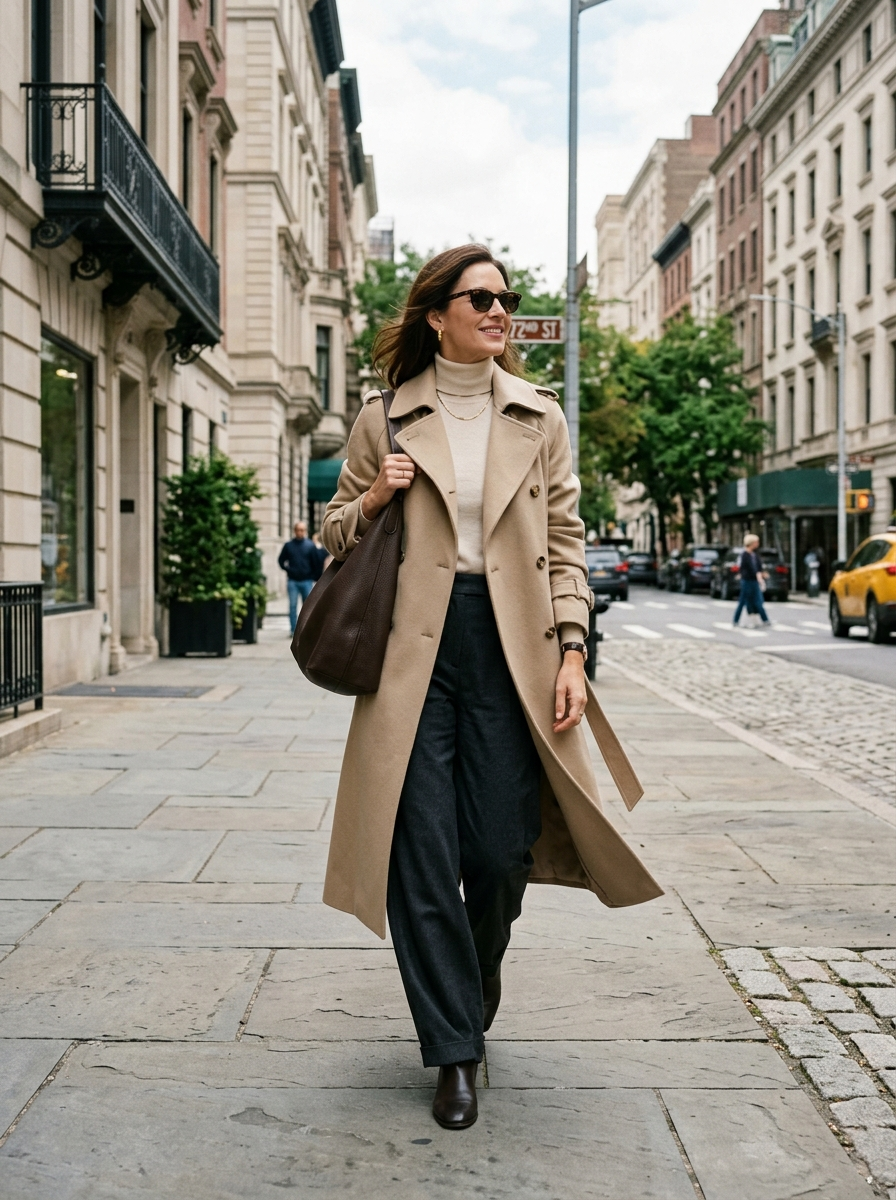
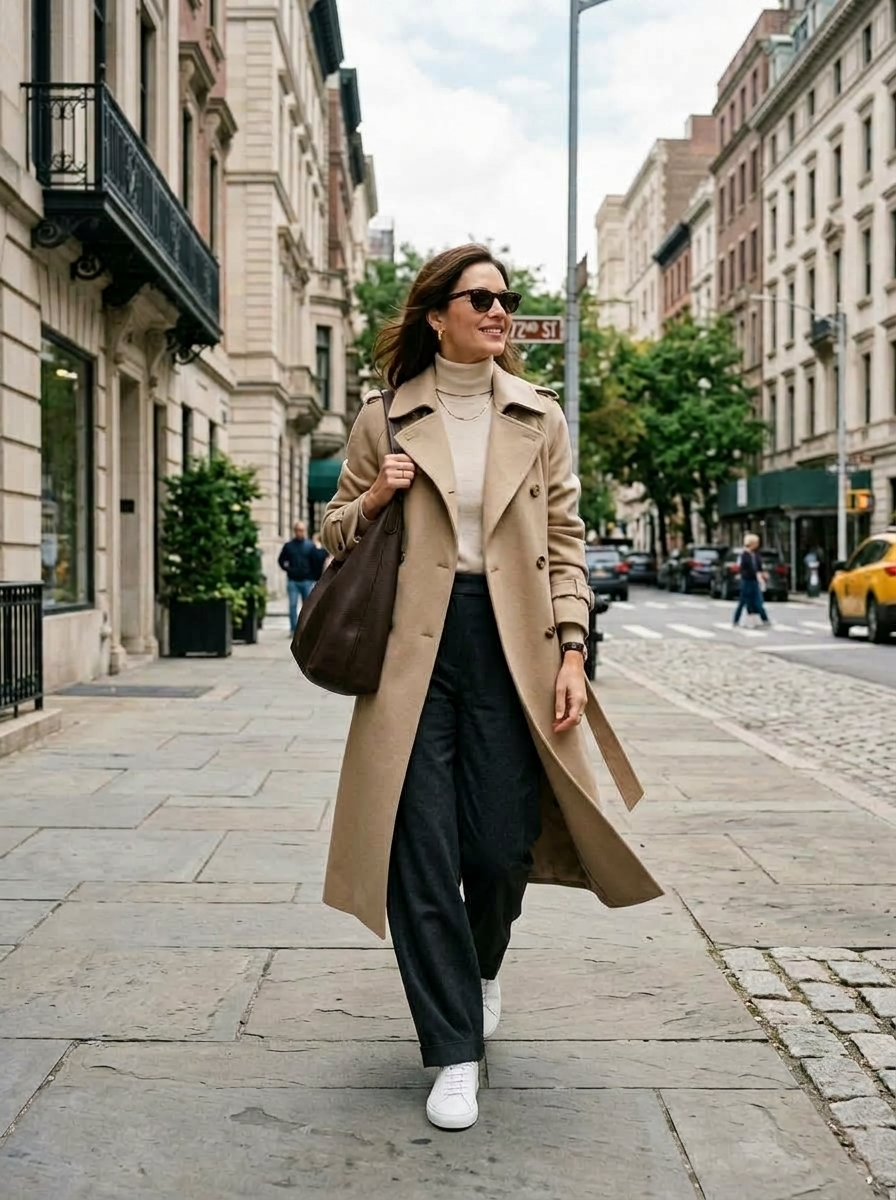
Update Manhattan Quiet Luxury look with minimalist white sneakers matching Amazon listing

diff --git a/js/data.js b/js/data.js
@@ -101,8 +101,8 @@ const PRODUCTS = [
     category: "shoes",
     subCategory: "Footwear",
     badge: "Amazon's Choice",
-    price: 25.99,
-    originalPrice: 39.99,
+    price: 21.99,
+    originalPrice: 25.99,
     rating: 4.6,
     reviewsCount: 12580,
     image: "https://images.unsplash.com/photo-1595950653106-6c9ebd614d3a?auto=format&fit=crop&w=800&q=80",
@@ -410,7 +410,7 @@ const OUTFITS = [
       {
         name: "Adokoo Classic Minimalist White Leather Sneakers",
         category: "Shoes",
-        price: "$25.99",
+        price: "$21.99",
         asin: "B0CH9FJY8V",
         amazonLink: getAffiliateLink("B0CH9FJY8V")
       }
